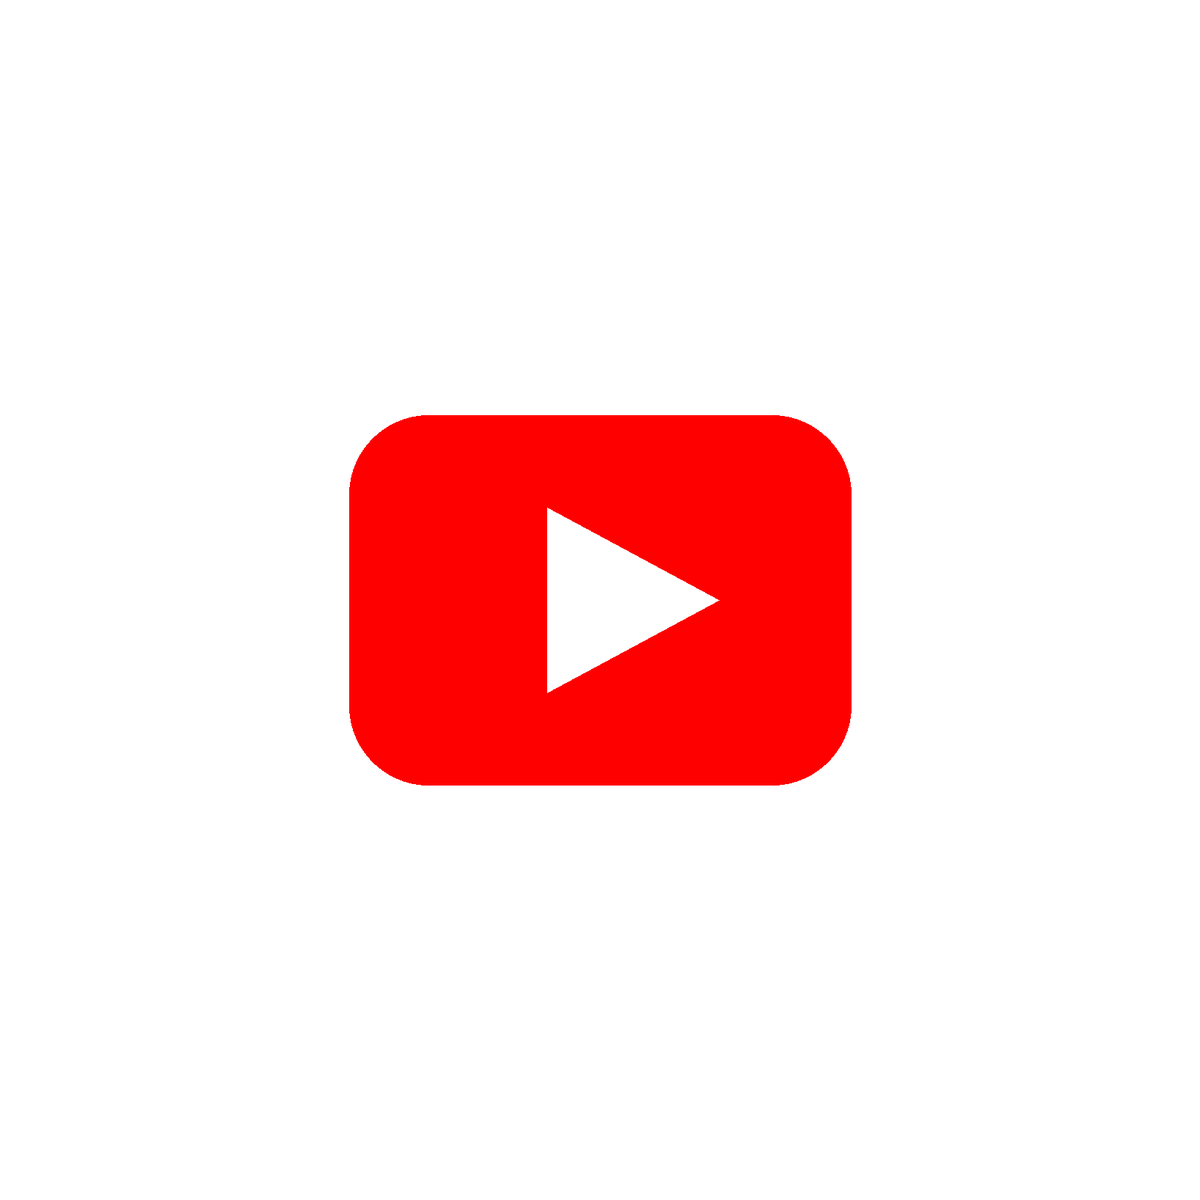
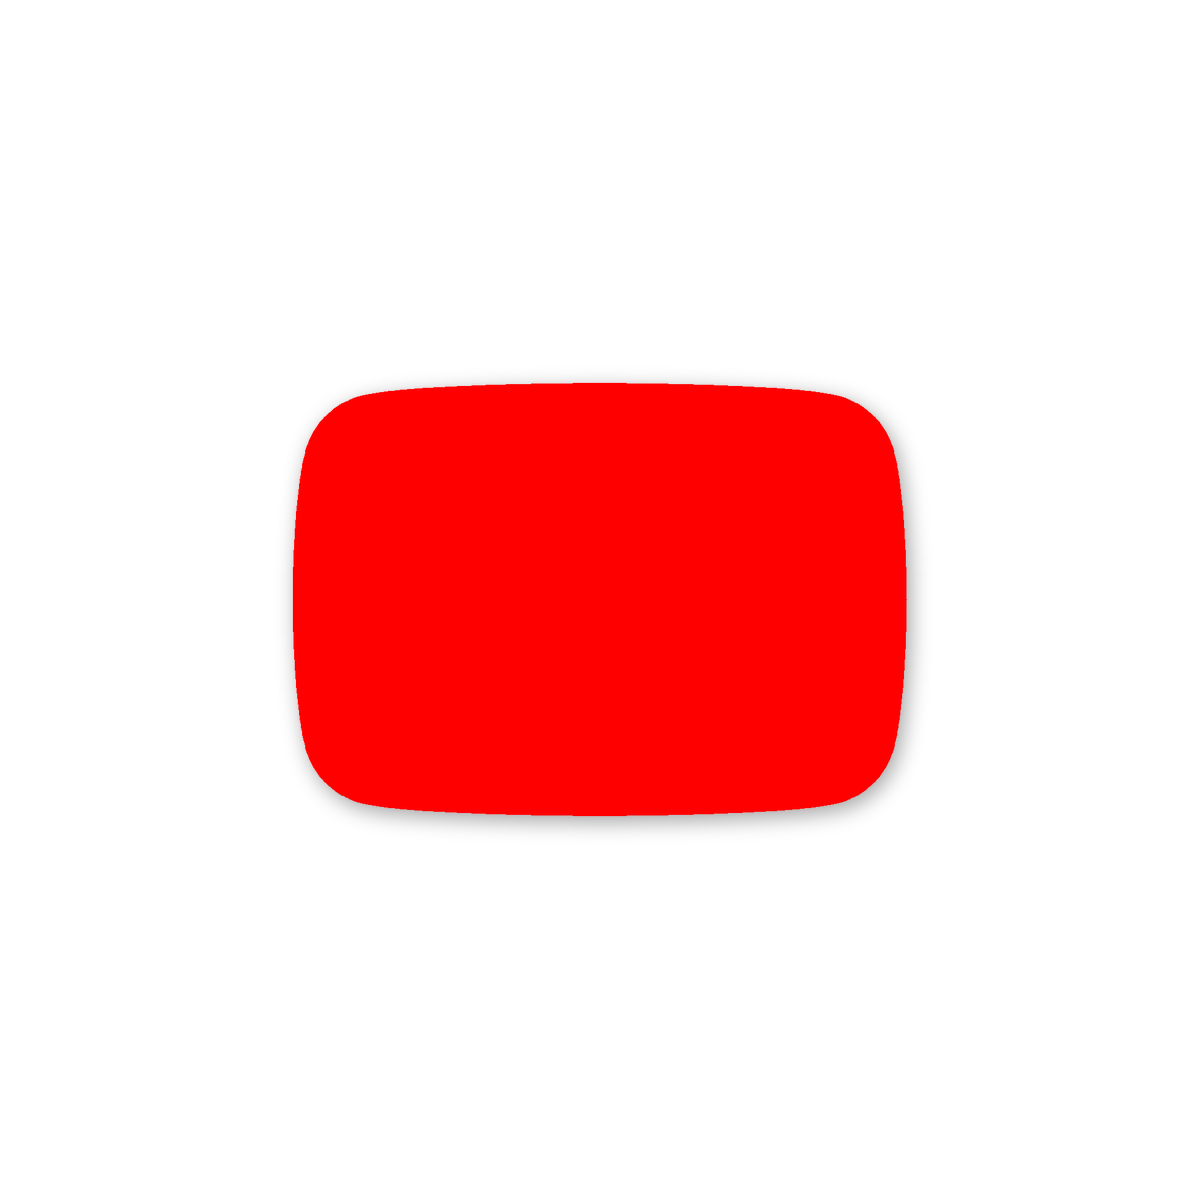
Use official product photos for all brands on mobile.
Map every catalog brand (xAI, Canva, CapCut, Netflix, YouTube, Duolingo, Spotify) to photo-* assets on mobile cards, slider, and detail. Update catalog image paths and CapCut/YouTube official photo binaries.

Changed region(s): [[0.2158, 0.3083, 0.7708, 0.7092], [0.4317, 0.4317, 0.6167, 0.5858]]

diff --git a/data/deals.js b/data/deals.js
@@ -1,3 +1,4 @@
+/** SubSaverPH catalog — real brand product photos */
 window.DEALS = [
   {
     "id": "supergrok-7d",
@@ -35,9 +36,9 @@ window.DEALS = [
     ],
     "active": true,
     "stockLeft": 2,
-    "image": "/assets/products/logos/brand-xai-fixed.svg?v=reallogo1",
-    "imageSlide": "/assets/products/logos/brand-xai-fixed.svg?v=reallogo1",
-    "logo": "/assets/products/logos/brand-xai-fixed.svg?v=reallogo1",
+    "image": "/assets/products/photo-xai.png?v=realbrand2",
+    "imageSlide": "/assets/products/photo-xai-slide.png?v=realbrand2",
+    "logo": "/assets/products/logos/brand-xai-fixed.svg?v=official3",
     "imageBg": "/assets/products/plate-xai.png",
     "brandColor": "#000000"
   },
@@ -77,9 +78,9 @@ window.DEALS = [
     ],
     "active": true,
     "stockLeft": 1,
-    "image": "/assets/products/logos/brand-xai-fixed.svg?v=reallogo1",
-    "imageSlide": "/assets/products/logos/brand-xai-fixed.svg?v=reallogo1",
-    "logo": "/assets/products/logos/brand-xai-fixed.svg?v=reallogo1",
+    "image": "/assets/products/photo-xai.png?v=realbrand2",
+    "imageSlide": "/assets/products/photo-xai-slide.png?v=realbrand2",
+    "logo": "/assets/products/logos/brand-xai-fixed.svg?v=official3",
     "imageBg": "/assets/products/plate-xai.png",
     "brandColor": "#000000"
   },
@@ -116,9 +117,9 @@ window.DEALS = [
     "extraDetails": [],
     "active": true,
     "stockLeft": 2,
-    "image": "/assets/products/logos/brand-canva.png?v=reallogo1",
-    "imageSlide": "/assets/products/logos/brand-canva.png?v=reallogo1",
-    "logo": "/assets/products/logos/brand-canva.png?v=reallogo1",
+    "image": "/assets/products/photo-canva.png?v=realbrand2",
+    "imageSlide": "/assets/products/photo-canva-slide.png?v=realbrand2",
+    "logo": "/assets/products/logos/brand-canva-fixed.svg?v=official3",
     "imageBg": "/assets/products/plate-canva.png",
     "brandColor": "#00c4cc"
   },
@@ -155,9 +156,9 @@ window.DEALS = [
     "extraDetails": [],
     "active": true,
     "stockLeft": 2,
-    "image": "/assets/products/logos/brand-canva.png?v=reallogo1",
-    "imageSlide": "/assets/products/logos/brand-canva.png?v=reallogo1",
-    "logo": "/assets/products/logos/brand-canva.png?v=reallogo1",
+    "image": "/assets/products/photo-canva.png?v=realbrand2",
+    "imageSlide": "/assets/products/photo-canva-slide.png?v=realbrand2",
+    "logo": "/assets/products/logos/brand-canva-fixed.svg?v=official3",
     "imageBg": "/assets/products/plate-canva.png",
     "brandColor": "#00c4cc"
   },
@@ -194,9 +195,9 @@ window.DEALS = [
     "extraDetails": [],
     "active": true,
     "stockLeft": 0,
-    "image": "/assets/products/photo-capcut.png?v=capcutorig2",
-    "imageSlide": "/assets/products/photo-capcut-slide.png?v=capcutorig2",
-    "logo": "/assets/products/logos/brand-capcut-official.svg?v=reallogo1",
+    "image": "/assets/products/photo-capcut.png?v=realbrand2",
+    "imageSlide": "/assets/products/photo-capcut-slide.png?v=realbrand2",
+    "logo": "/assets/products/logos/brand-capcut-official.svg?v=official3",
     "imageBg": "/assets/products/plate-capcut.png",
     "brandColor": "#000000"
   },
@@ -232,9 +233,9 @@ window.DEALS = [
     "extraDetails": [],
     "active": true,
     "stockLeft": 0,
-    "image": "/assets/products/photo-capcut.png?v=capcutorig2",
-    "imageSlide": "/assets/products/photo-capcut-slide.png?v=capcutorig2",
-    "logo": "/assets/products/logos/brand-capcut-official.svg?v=reallogo1",
+    "image": "/assets/products/photo-capcut.png?v=realbrand2",
+    "imageSlide": "/assets/products/photo-capcut-slide.png?v=realbrand2",
+    "logo": "/assets/products/logos/brand-capcut-official.svg?v=official3",
     "imageBg": "/assets/products/plate-capcut.png",
     "brandColor": "#000000"
   },
@@ -268,9 +269,9 @@ window.DEALS = [
     "howToRedeem": "1. Open the official website or app for this product.\n2. Sign in with the Username and Password from your delivery package.\n3. Do not change the password, email, or billing details.\n4. Use the account only as provided for the full access period.\n5. If login fails, contact support with your Order ID before trying other fixes.",
     "importantNotes": "Do not change the username, email, password, billing address, or subscription plan.\nDo not share, resell, or post the login publicly.\nPersonal use only — follow the official service terms.\nBreaking these rules voids refunds and support.\nRefunds only if the product is defective or not delivered.",
     "stockLeft": 0,
-    "image": "/assets/products/logos/brand-netflix-fixed.svg?v=reallogo1",
-    "imageSlide": "/assets/products/logos/brand-netflix-fixed.svg?v=reallogo1",
-    "logo": "/assets/products/logos/brand-netflix-fixed.svg?v=reallogo1",
+    "image": "/assets/products/photo-netflix.png?v=realbrand2",
+    "imageSlide": "/assets/products/photo-netflix-slide.png?v=realbrand2",
+    "logo": "/assets/products/logos/brand-netflix-fixed.svg?v=official3",
     "imageBg": "/assets/products/plate-netflix.png",
     "brandColor": "#000000"
   },
@@ -304,9 +305,9 @@ window.DEALS = [
     "howToRedeem": "1. Open the official website or app for this product.\n2. Sign in with the Username and Password from your delivery package.\n3. Do not change the password, email, or billing details.\n4. Use the account only as provided for the full access period.\n5. If login fails, contact support with your Order ID before trying other fixes.",
     "importantNotes": "Do not change the username, email, password, billing address, or subscription plan.\nDo not share, resell, or post the login publicly.\nPersonal use only — follow the official service terms.\nBreaking these rules voids refunds and support.\nRefunds only if the product is defective or not delivered.",
     "stockLeft": 0,
-    "image": "/assets/products/logos/brand-netflix-fixed.svg?v=reallogo1",
-    "imageSlide": "/assets/products/logos/brand-netflix-fixed.svg?v=reallogo1",
-    "logo": "/assets/products/logos/brand-netflix-fixed.svg?v=reallogo1",
+    "image": "/assets/products/photo-netflix.png?v=realbrand2",
+    "imageSlide": "/assets/products/photo-netflix-slide.png?v=realbrand2",
+    "logo": "/assets/products/logos/brand-netflix-fixed.svg?v=official3",
     "imageBg": "/assets/products/plate-netflix.png",
     "brandColor": "#000000"
   },
@@ -340,9 +341,9 @@ window.DEALS = [
     "howToRedeem": "1. Open the official website or app for this product.\n2. Sign in with the Username and Password from your delivery package.\n3. Do not change the password, email, or billing details.\n4. Use the account only as provided for the full access period.\n5. If login fails, contact support with your Order ID before trying other fixes.",
     "importantNotes": "Do not change the username, email, password, billing address, or subscription plan.\nDo not share, resell, or post the login publicly.\nPersonal use only — follow the official service terms.\nBreaking these rules voids refunds and support.\nRefunds only if the product is defective or not delivered.",
     "stockLeft": 0,
-    "image": "/assets/products/logos/youtube-full.svg?v=reallogo1",
-    "imageSlide": "/assets/products/logos/youtube-full.svg?v=reallogo1",
-    "logo": "/assets/products/logos/youtube-full.svg?v=reallogo1",
+    "image": "/assets/products/photo-youtube.png?v=realbrand2",
+    "imageSlide": "/assets/products/photo-youtube-slide.png?v=realbrand2",
+    "logo": "/assets/products/logos/brand-youtube-fixed.svg?v=official3",
     "imageBg": "/assets/products/plate-youtube.png",
     "brandColor": "#ffffff"
   },
@@ -376,9 +377,9 @@ window.DEALS = [
     "howToRedeem": "1. Open the official website or app for this product.\n2. Sign in with the Username and Password from your delivery package.\n3. Do not change the password, email, or billing details.\n4. Use the account only as provided for the full access period.\n5. If login fails, contact support with your Order ID before trying other fixes.",
     "importantNotes": "Do not change the username, email, password, billing address, or subscription plan.\nDo not share, resell, or post the login publicly.\nPersonal use only — follow the official service terms.\nBreaking these rules voids refunds and support.\nRefunds only if the product is defective or not delivered.",
     "stockLeft": 0,
-    "image": "/assets/products/logos/youtube-full.svg?v=reallogo1",
-    "imageSlide": "/assets/products/logos/youtube-full.svg?v=reallogo1",
-    "logo": "/assets/products/logos/youtube-full.svg?v=reallogo1",
+    "image": "/assets/products/photo-youtube.png?v=realbrand2",
+    "imageSlide": "/assets/products/photo-youtube-slide.png?v=realbrand2",
+    "logo": "/assets/products/logos/brand-youtube-fixed.svg?v=official3",
     "imageBg": "/assets/products/plate-youtube.png",
     "brandColor": "#ffffff"
   },
@@ -419,9 +420,9 @@ window.DEALS = [
     ],
     "active": true,
     "stockLeft": 0,
-    "image": "/assets/products/logos/brand-duolingo-fixed.svg?v=reallogo1",
-    "imageSlide": "/assets/products/logos/brand-duolingo-fixed.svg?v=reallogo1",
-    "logo": "/assets/products/logos/brand-duolingo-fixed.svg?v=reallogo1",
+    "image": "/assets/products/photo-duolingo.png?v=realbrand2",
+    "imageSlide": "/assets/products/photo-duolingo-slide.png?v=realbrand2",
+    "logo": "/assets/products/logos/brand-duolingo-fixed.svg?v=official3",
     "imageBg": "/assets/products/plate-duolingo.png",
     "brandColor": "#ffffff"
   },
@@ -462,9 +463,9 @@ window.DEALS = [
     ],
     "active": true,
     "stockLeft": 0,
-    "image": "/assets/products/logos/brand-spotify-fixed.svg?v=reallogo1",
-    "imageSlide": "/assets/products/logos/brand-spotify-fixed.svg?v=reallogo1",
-    "logo": "/assets/products/logos/brand-spotify-fixed.svg?v=reallogo1",
+    "image": "/assets/products/photo-spotify.png?v=realbrand2",
+    "imageSlide": "/assets/products/photo-spotify-slide.png?v=realbrand2",
+    "logo": "/assets/products/logos/brand-spotify-fixed.svg?v=official3",
     "imageBg": "/assets/products/plate-spotify.png",
     "brandColor": "#191414"
   }

diff --git a/js/app.js b/js/app.js
@@ -116,20 +116,26 @@ const OFFICIAL_BRAND_SLIDE = {
 };
 
 /**
- * Mobile All Deals / cards: original brand photos
- * for Grok, CapCut, Duolingo, Canva.
+ * Mobile All Deals / cards / detail / slider:
+ * official brand product photos for every catalog brand.
  */
 const MOBILE_OFFICIAL_PHOTO = {
-  xAI: "/assets/products/m-orig-xai.png?v=morig1",
-  Canva: "/assets/products/m-orig-canva.png?v=morig1",
-  CapCut: "/assets/products/m-orig-capcut.png?v=morig1",
-  Duolingo: "/assets/products/m-orig-duolingo.png?v=morig1",
+  xAI: "/assets/products/photo-xai.png?v=officialm1",
+  Canva: "/assets/products/photo-canva.png?v=officialm1",
+  CapCut: "/assets/products/photo-capcut.png?v=officialm1",
+  Netflix: "/assets/products/photo-netflix.png?v=officialm1",
+  YouTube: "/assets/products/photo-youtube.png?v=officialm1",
+  Duolingo: "/assets/products/photo-duolingo.png?v=officialm1",
+  Spotify: "/assets/products/photo-spotify.png?v=officialm1",
 };
 const MOBILE_OFFICIAL_SLIDE = {
-  xAI: "/assets/products/m-orig-xai-slide.png?v=morig1",
-  Canva: "/assets/products/m-orig-canva-slide.png?v=morig1",
-  CapCut: "/assets/products/m-orig-capcut-slide.png?v=morig1",
-  Duolingo: "/assets/products/m-orig-duolingo-slide.png?v=morig1",
+  xAI: "/assets/products/photo-xai-slide.png?v=officialm1",
+  Canva: "/assets/products/photo-canva-slide.png?v=officialm1",
+  CapCut: "/assets/products/photo-capcut-slide.png?v=officialm1",
+  Netflix: "/assets/products/photo-netflix-slide.png?v=officialm1",
+  YouTube: "/assets/products/photo-youtube-slide.png?v=officialm1",
+  Duolingo: "/assets/products/photo-duolingo-slide.png?v=officialm1",
+  Spotify: "/assets/products/photo-spotify-slide.png?v=officialm1",
 };
 
 /** Match storefront mobile layout (CSS max-width: 900px). */
@@ -166,12 +172,16 @@ function brandUsesCover(brand) {
 }
 
 /**
- * Card/detail image: mobile official photos for key brands; logos elsewhere.
+ * Card/detail image: on mobile, always prefer official product photos.
  */
 function productImage(d) {
   if (!d) return "";
   if (isMobileView() && d.brand && MOBILE_OFFICIAL_PHOTO[d.brand]) {
     return MOBILE_OFFICIAL_PHOTO[d.brand];
+  }
+  /* Mobile fallback: catalog raster photo before SVG logo */
+  if (isMobileView() && d.image && isProductPhoto(d.image)) {
+    return String(d.image);
   }
   if (d.brand && OFFICIAL_BRAND_LOGO[d.brand]) return OFFICIAL_BRAND_LOGO[d.brand];
   if (d.brand && OFFICIAL_BRAND_COVER[d.brand]) return OFFICIAL_BRAND_COVER[d.brand];
@@ -180,7 +190,7 @@ function productImage(d) {
   return productLogo(d);
 }
 
-/** Homepage slider: mobile official photos when available. */
+/** Homepage slider: mobile official photos for every brand. */
 function productSlideImage(d) {
   if (!d) return "";
   if (isMobileView() && d.brand && MOBILE_OFFICIAL_SLIDE[d.brand]) {
@@ -188,6 +198,12 @@ function productSlideImage(d) {
   }
   if (isMobileView() && d.brand && MOBILE_OFFICIAL_PHOTO[d.brand]) {
     return MOBILE_OFFICIAL_PHOTO[d.brand];
+  }
+  if (isMobileView() && d.imageSlide && isProductPhoto(d.imageSlide)) {
+    return String(d.imageSlide);
+  }
+  if (isMobileView() && d.image && isProductPhoto(d.image)) {
+    return String(d.image);
   }
   if (d.brand && OFFICIAL_BRAND_SLIDE[d.brand]) return OFFICIAL_BRAND_SLIDE[d.brand];
   if (d.brand && OFFICIAL_BRAND_LOGO[d.brand]) return OFFICIAL_BRAND_LOGO[d.brand];
@@ -576,13 +592,13 @@ function card(d, highlightQ = "") {
   const wished = isWished(d.id);
   const typeLabel = (d.category || "Plan").toUpperCase();
   const brandLabel = d.brand === "xAI" ? "SuperGrok" : d.brand || "";
-  /* Mobile: full-bleed official photos for Canva/CapCut/Grok/Duolingo; else logo-fit */
+  /* Mobile: full-bleed official photos for all brands; else logo-fit */
   const photo = isProductPhoto(img);
   const fillFrame =
     brandUsesCover(d.brand) ||
     (photo &&
-      (/m-orig-(xai|canva|capcut|duolingo)/i.test(img) ||
-        /photo-(xai|canva|capcut|duolingo)/i.test(img) ||
+      (/m-orig-/i.test(img) ||
+        /photo-(xai|canva|capcut|duolingo|netflix|youtube|spotify)/i.test(img) ||
         /cover-canva|cover-capcut/i.test(img)));
   const logoFit = !fillFrame;
   const photoFit = photo && !fillFrame;
@@ -1080,8 +1096,10 @@ function viewHome() {
             const brandLabel = d.brand === "xAI" ? "SuperGrok" : d.brand || "";
             const isCover =
               brandUsesCover(d.brand) ||
-              /m-orig-(xai|canva|capcut|duolingo)/i.test(slideSrc) ||
-              /photo-(xai|canva|capcut|duolingo)|cover-canva|cover-capcut/i.test(slideSrc);
+              /m-orig-/i.test(slideSrc) ||
+              /photo-(xai|canva|capcut|duolingo|netflix|youtube|spotify)|cover-canva|cover-capcut/i.test(
+                slideSrc
+              );
             const coverClass = isCover
               ? d.brand === "Canva"
                 ? " product-slide--cover product-slide--canva"
@@ -1255,9 +1273,11 @@ function viewDeal() {
                     const photo = isProductPhoto(src);
                     const cover =
                       photo &&
-                      (d.brand === "Canva" ||
+                      (brandUsesCover(d.brand) ||
+                        d.brand === "Canva" ||
                         d.brand === "CapCut" ||
-                        /cover-/i.test(src));
+                        /cover-/i.test(src) ||
+                        /photo-(xai|canva|capcut|duolingo|netflix|youtube|spotify)/i.test(src));
                     const logoFit = !photo;
                     const photoFit = photo && !cover;
                     return `<div class="detail-product-img-wrap${cover ? " detail-product-img-wrap--cover" : photoFit ? " detail-product-img-wrap--photo" : " detail-product-img-wrap--logo"}${logoFit ? " detail-product-img-wrap--logo-fit" : ""}" style="--brand-bg:${escapeAttr(productBrandColor(d))}">

diff --git a/index.html b/index.html
@@ -438,7 +438,7 @@
   </nav>
 
   <script src="data/deals.js?v=svcgrok1"></script>
-  <script type="module" src="js/app.js?v=termsfix3"></script>
+  <script type="module" src="js/app.js?v=officialphotos1"></script>
   <!-- Live data loads from /api/catalog when server.py is running -->
 </body>
 </html>
